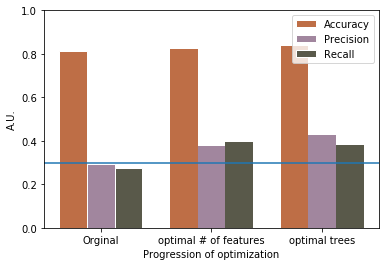
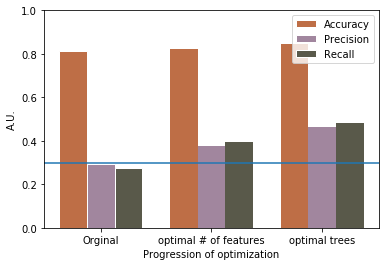
Add new figures

Changed region(s): [[0.7712, 0.4511, 0.9563, 0.5714], [0.7095, 0.1504, 0.8021, 0.1805]]

diff --git a/summary.md b/summary.md
@@ -199,15 +199,15 @@ improvement on the precision shown in the updated bar chart.
 And the corresponding decision tree looks like this [9]:
 
 <p align="center">
-  <img src="summary_files/tree_optim_vis.png" alt="score_number_of_features_optim.png"/>
+  <img src="summary_files/tree_opt.png" alt="tree_opt"/>
 </p>
 
 Parameter setting that corresponds to the optimal tree:
 
 >1. criterion: entropy
->2. maximum depth: 5
->3. maximum leaf nodes: None
->4. minimum samples leaf: 1
+>2. maximum depth: None
+>3. maximum leaf nodes: 5
+>4. minimum samples leaf: 10
 >5. minimum samples split: 2
 
 It shall be noted that for this tree, `fraction_to_poi` is a root node as well
